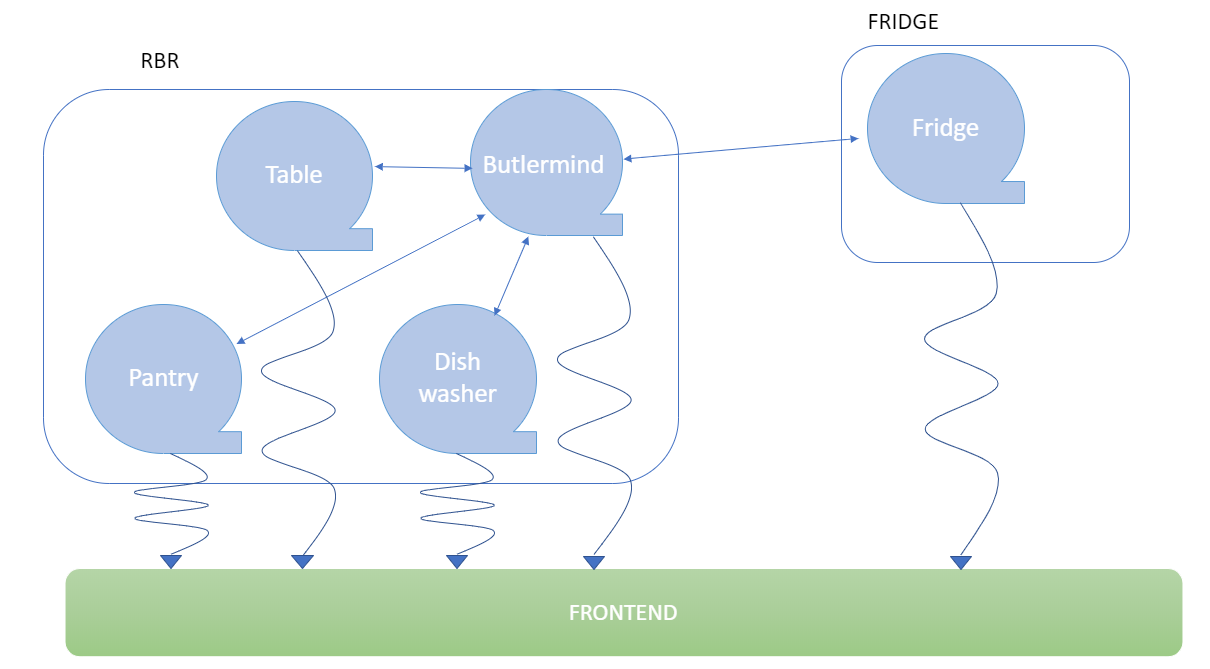
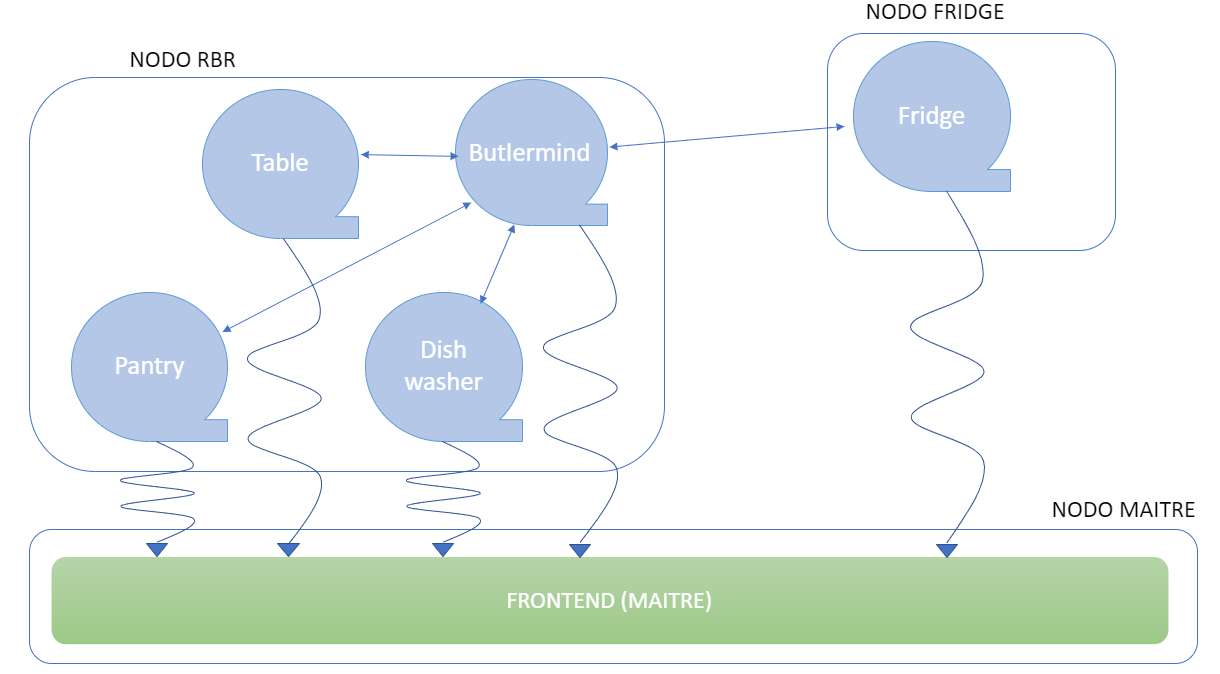
Aggiornamento doc html

diff --git a/documentazione/progettoISS.html b/documentazione/progettoISS.html
@@ -535,7 +535,14 @@ Dai requisiti sopra identificati ricaviamo che:
 <ul>
 	<li>
 	Essendo i vari elementi dell'applicazione distribuiti ed autonomi, 
-	è utile utilizzare un modello ad attori con scambio di messaggi asincrono  
+	è utile utilizzare un modello ad attori con scambio di messaggi ed 
+	eventi asincrono 
+	</li>
+	<li>
+	Dato che il funzionamento dell'applicazione è piuttosto ripetitivo e 
+	deterministico, gli attori sono ben modellabili come automi a stati finiti 
+	(ASF) in cui il passaggio tra i vari stati è solitamente scandito dai 
+	messaggi ricevuti
 	</li>
 	<li>
 	I vari attori dovranno contenere ciascuno un proprio stato solo da essi 
@@ -560,8 +567,8 @@ Dai requisiti sopra identificati ricaviamo che:
     </li>
     <li>
 	Per eseguire ogni task in maniera autonoma l'<bc>RBR</bc> dovrà essere a 
-    conoscenza della posizione di ogni elemento nella stanza e dovrà essere in 
-    grado di calcolare il percorso per raggiungerli
+    conoscenza della posizione di ogni elemento nella stanza (e della propria) 
+	e dovrà essere in grado di calcolare il percorso per raggiungerli
 	</li>
     <li>
 	L'<bc>RBR</bc> dovrà conoscere i messaggi da inviare agli elementi della 
@@ -588,7 +595,18 @@ Dai requisiti sopra identificati ricaviamo che:
     fine di poterli evitare
     </li>
 </ul>
+</br>
+Detto ciò, è possibile definire un primo modello logico dell'applicazione, dal 
+punto di vista di struttura, interazione, comportamento.
 	<h3>Struttura</h3>
+	<div>
+	Secondo i requisiti, sono già definibili per i vari attori dei nodi 
+	computazionali distinti. Nello specifico avremo un nodo dedicato a 
+	<em>fridge</em>, essendo esso una risorsa smart, un nodo dedicato 
+	all'interfaccia che utilizzerà <bc>Maitre</bc> ed uno relativo al 
+	<bc>RBR</bc> ed agli attori al momento non smart
+	</div>
+	</br>
 	<div class="img" style="width:60%">
 		<center><img src="./immagini/struttura.png" width="150%" height="75%"/></center>
 	</div></br>
